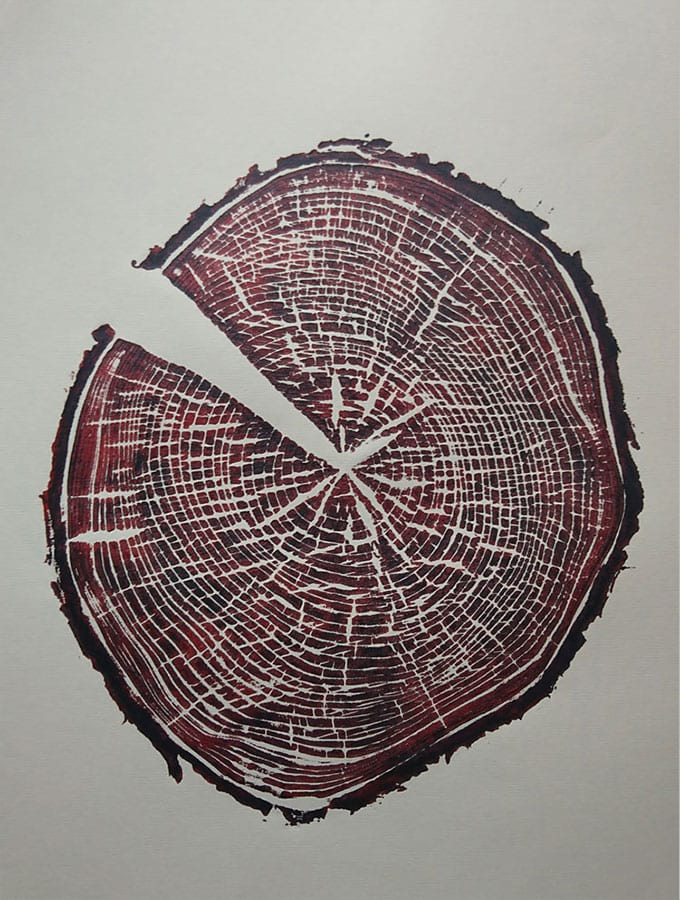
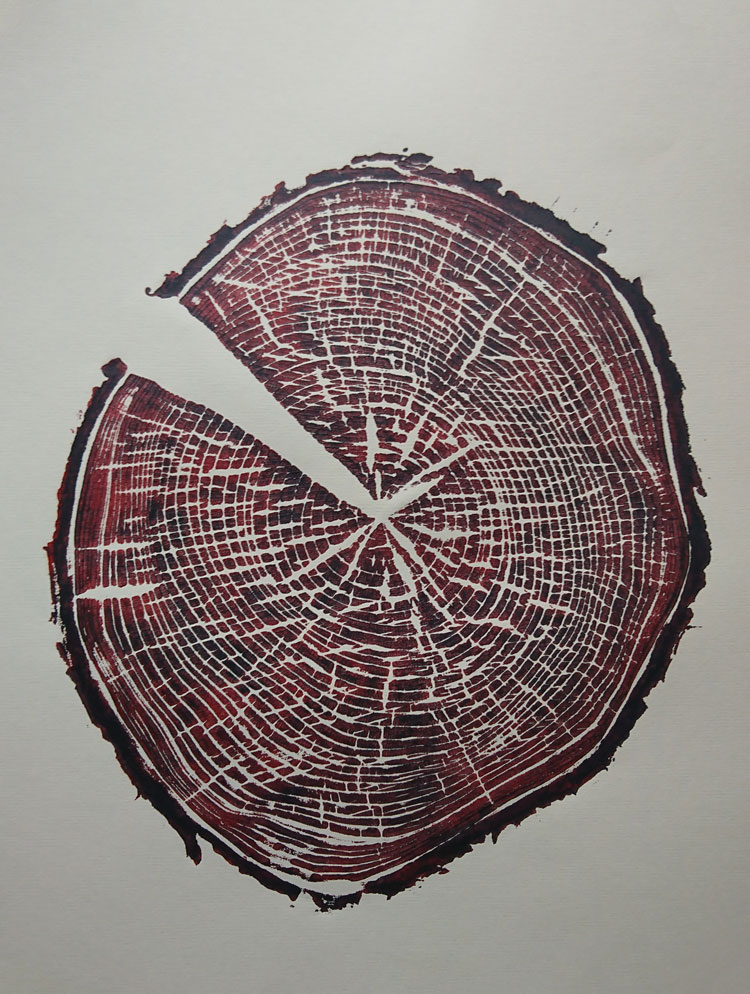
Add files via upload

diff --git a/index.html b/index.html
@@ -107,7 +107,7 @@
             
 <!-- 6 -->
             <div class="cell__main">
-              <a href="https://victorblanco.bigcartel.com/product/custom-size-paper-bigger-than-a1" target="_blank"><img src="images/home/acer_large_blue-750.jpg" alt="Large stem of Norway Maple with an open cavity" class="cell__main-img"></a>
+              <a href="https://victorblanco.bigcartel.com/product/custom-size-paper-bigger-than-a1" target="_blank"><img src="images/home/acer_large_blue-340.jpg" alt="Large stem of Norway Maple with an open cavity" class="cell__main-img"></a>
               <p class="cell__main-text"><a href="https://victorblanco.bigcartel.com/product/custom-size-paper-bigger-than-a1" target="_blank">The main stem of a Norway maple with a big cavity and cambium growth <br><br>
                 Prints cannot be scaled as they are printed directly from the wood block<br>
                 Other colours available</a></p>
